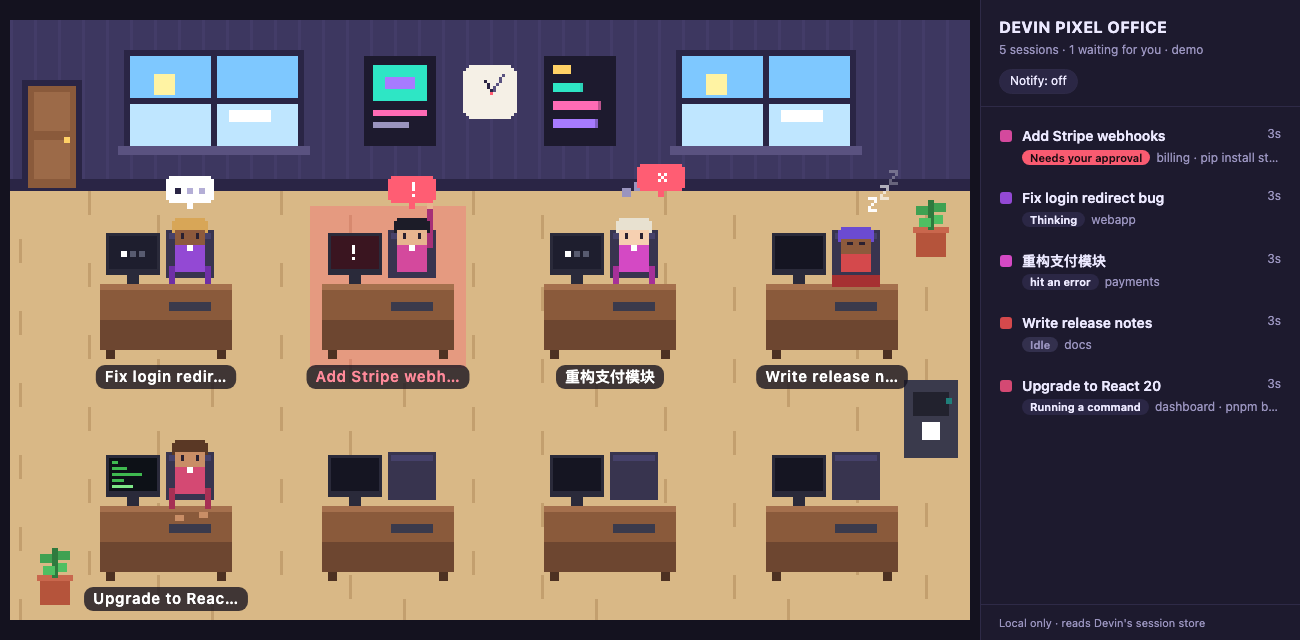
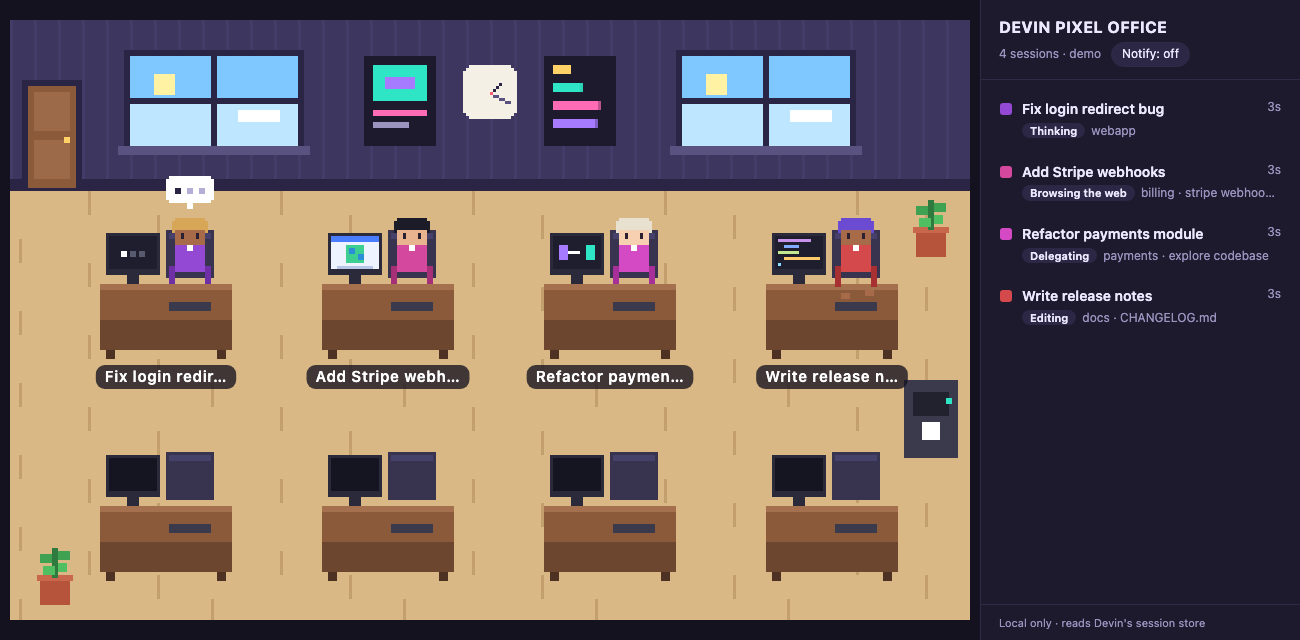
Make the project English-only
Drop the Chinese UI labels and demo session, translate the README and
retake the screenshot.

Generated with [Devin](https://devin.ai)

diff --git a/public/app.js b/public/app.js
@@ -5,10 +5,7 @@
 (() => {
   const W = 320;
   const H = 200;
-  const ZH = /^zh/i.test(navigator.language || '');
-  const T = ZH
-    ? { thinking: '思考中', typing: '写代码', terminal: '跑命令', reading: '读代码', browsing: '上网查资料', delegating: '派活给子代理', planning: '做计划', asking: '有问题问你', waiting: '等你批准', tool: '调用工具', done: '完成', sleeping: '摸鱼中', summary: (n, w) => `${n} 个会话${w ? ` · ${w} 个在等你` : ''}`, empty: '最近 2 小时没有 Devin 会话。开一个吧！', notifyOn: '通知：开', notifyOff: '通知：关', more: (n) => `还有 ${n} 个`, reconnect: '重新连接中…', demo: '演示模式', error: '报错了' }
-    : { thinking: 'Thinking', typing: 'Editing', terminal: 'Running a command', reading: 'Reading code', browsing: 'Browsing the web', delegating: 'Delegating', planning: 'Planning', asking: 'Has a question', waiting: 'Needs your approval', tool: 'Using a tool', done: 'Done', sleeping: 'Idle', summary: (n, w) => `${n} session${n === 1 ? '' : 's'}${w ? ` · ${w} waiting for you` : ''}`, empty: 'No Devin sessions in the last 2 hours. Start one!', notifyOn: 'Notify: on', notifyOff: 'Notify: off', more: (n) => `+${n} more`, reconnect: 'reconnecting…', demo: 'demo', error: 'hit an error' };
+  const T = { thinking: 'Thinking', typing: 'Editing', terminal: 'Running a command', reading: 'Reading code', browsing: 'Browsing the web', delegating: 'Delegating', planning: 'Planning', asking: 'Has a question', waiting: 'Needs your approval', tool: 'Using a tool', done: 'Done', sleeping: 'Idle', summary: (n, w) => `${n} session${n === 1 ? '' : 's'}${w ? ` · ${w} waiting for you` : ''}`, empty: 'No Devin sessions in the last 2 hours. Start one!', notifyOn: 'Notify: on', notifyOff: 'Notify: off', more: (n) => `+${n} more`, reconnect: 'reconnecting…', demo: 'demo', error: 'hit an error' };
 
   const stage = document.getElementById('stage');
   const px = document.getElementById('px');

diff --git a/lib/demo.js b/lib/demo.js
@@ -4,7 +4,7 @@
 const SCRIPT = [
   { id: 'demo-1', title: 'Fix login redirect bug', project: 'webapp', steps: [['thinking'], ['reading', 'read', 'auth.ts'], ['typing', 'edit', 'auth.ts'], ['terminal', 'exec', 'npm test'], ['done']] },
   { id: 'demo-2', title: 'Add Stripe webhooks', project: 'billing', steps: [['browsing', 'web_search', 'stripe webhook signature'], ['typing', 'write', 'webhooks.py'], ['waiting', 'exec', 'pip install stripe'], ['terminal', 'exec', 'pytest -q']] },
-  { id: 'demo-3', title: '重构支付模块', project: 'payments', steps: [['planning', 'todo_write', ''], ['delegating', 'run_subagent', 'explore codebase'], ['typing', 'edit', 'ledger.go'], ['thinking', null, null, true]] },
+  { id: 'demo-3', title: 'Refactor payments module', project: 'payments', steps: [['planning', 'todo_write', ''], ['delegating', 'run_subagent', 'explore codebase'], ['typing', 'edit', 'ledger.go'], ['thinking', null, null, true]] },
   { id: 'demo-4', title: 'Write release notes', project: 'docs', steps: [['asking', 'ask_user_question', 'Which version?'], ['typing', 'edit', 'CHANGELOG.md'], ['done'], ['sleeping']] },
   { id: 'demo-5', title: 'Upgrade to React 20', project: 'dashboard', steps: [['terminal', 'exec', 'pnpm up react'], ['reading', 'grep', 'useEffect'], ['typing', 'edit', 'App.tsx'], ['terminal', 'exec', 'pnpm build']] },
 ];

diff --git a/README.md b/README.md
@@ -1,9 +1,8 @@
 # devin-pixel-office
 
-**你的每个 Devin 会话，都是像素办公室里的一个小人。** Devin 改代码时它在敲键盘，跑命令时屏幕滚绿字，
-查资料时在上网，需要你批准时**举手 + 红色感叹号**，干完活喝咖啡，闲太久就趴桌上睡觉。
-
-Every Devin session becomes a little pixel character in a tiny office, live:
+**Every Devin session becomes a little pixel character in a tiny office, live.** It types when Devin edits,
+watches green text scroll when Devin runs commands, browses when Devin researches, **raises a hand with a red `!`**
+when Devin needs your approval, sips coffee when it is done, and falls asleep on the desk when idle too long.
 
 ![Devin Pixel Office](docs/demo.png)
 
